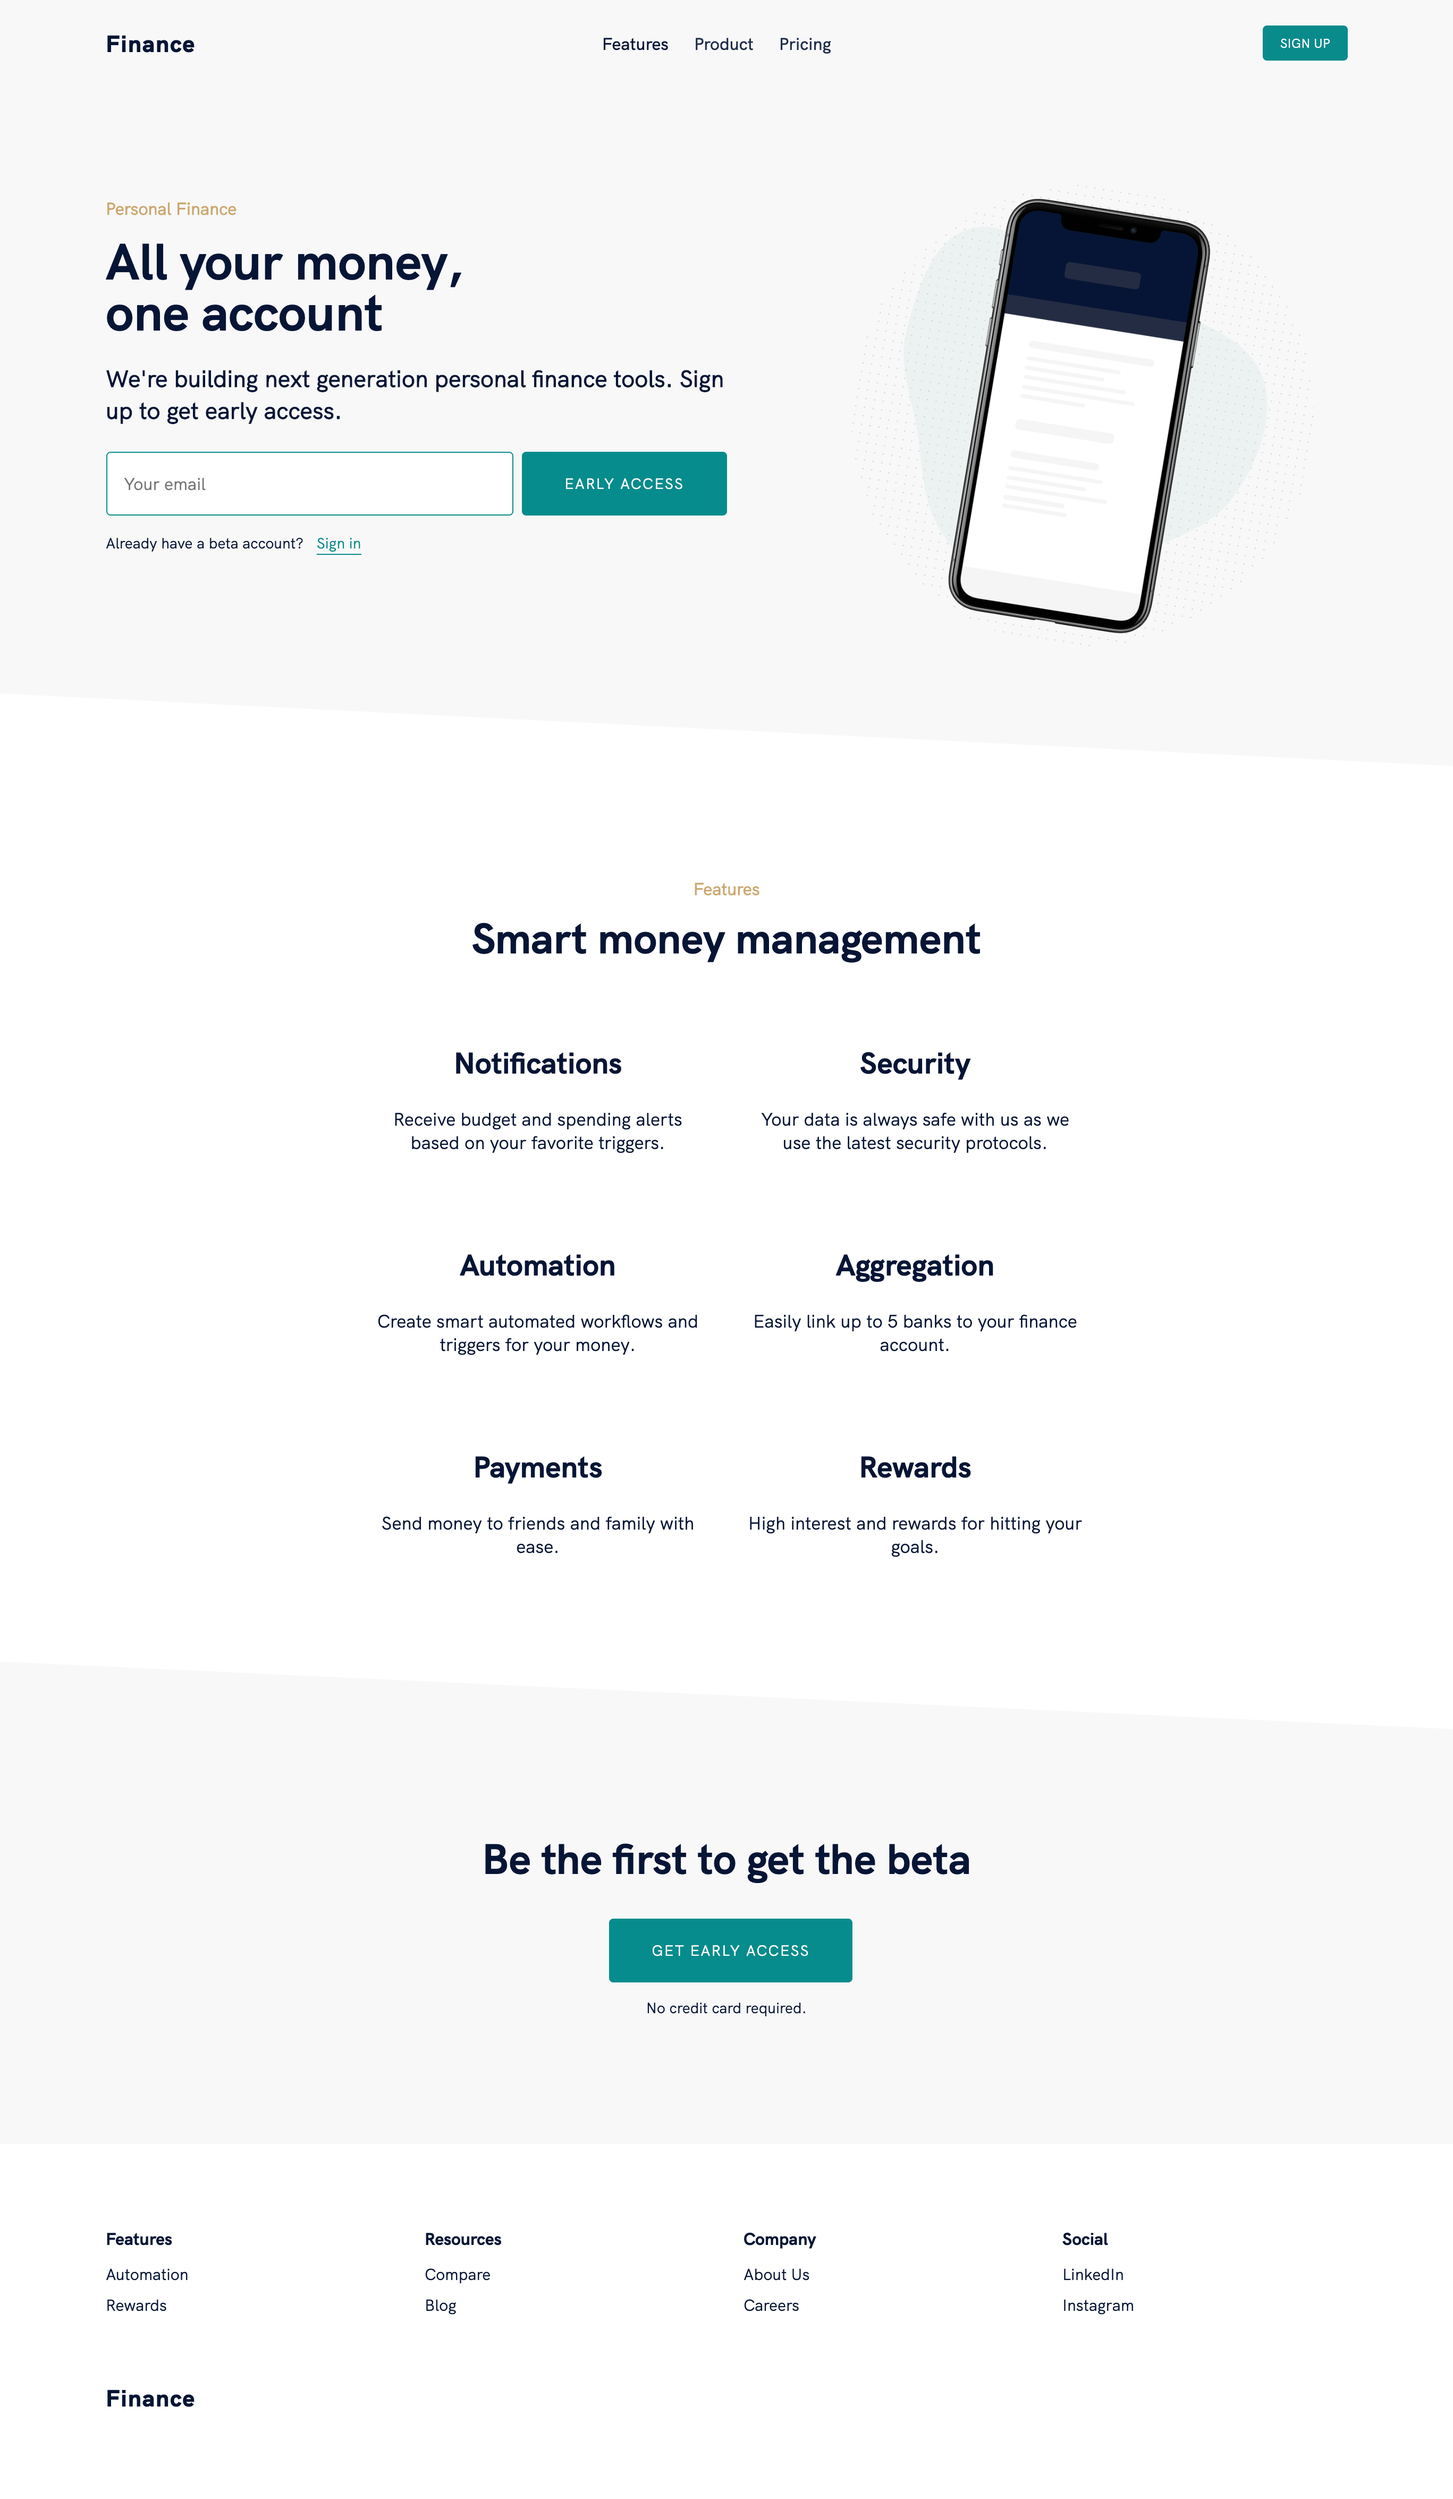
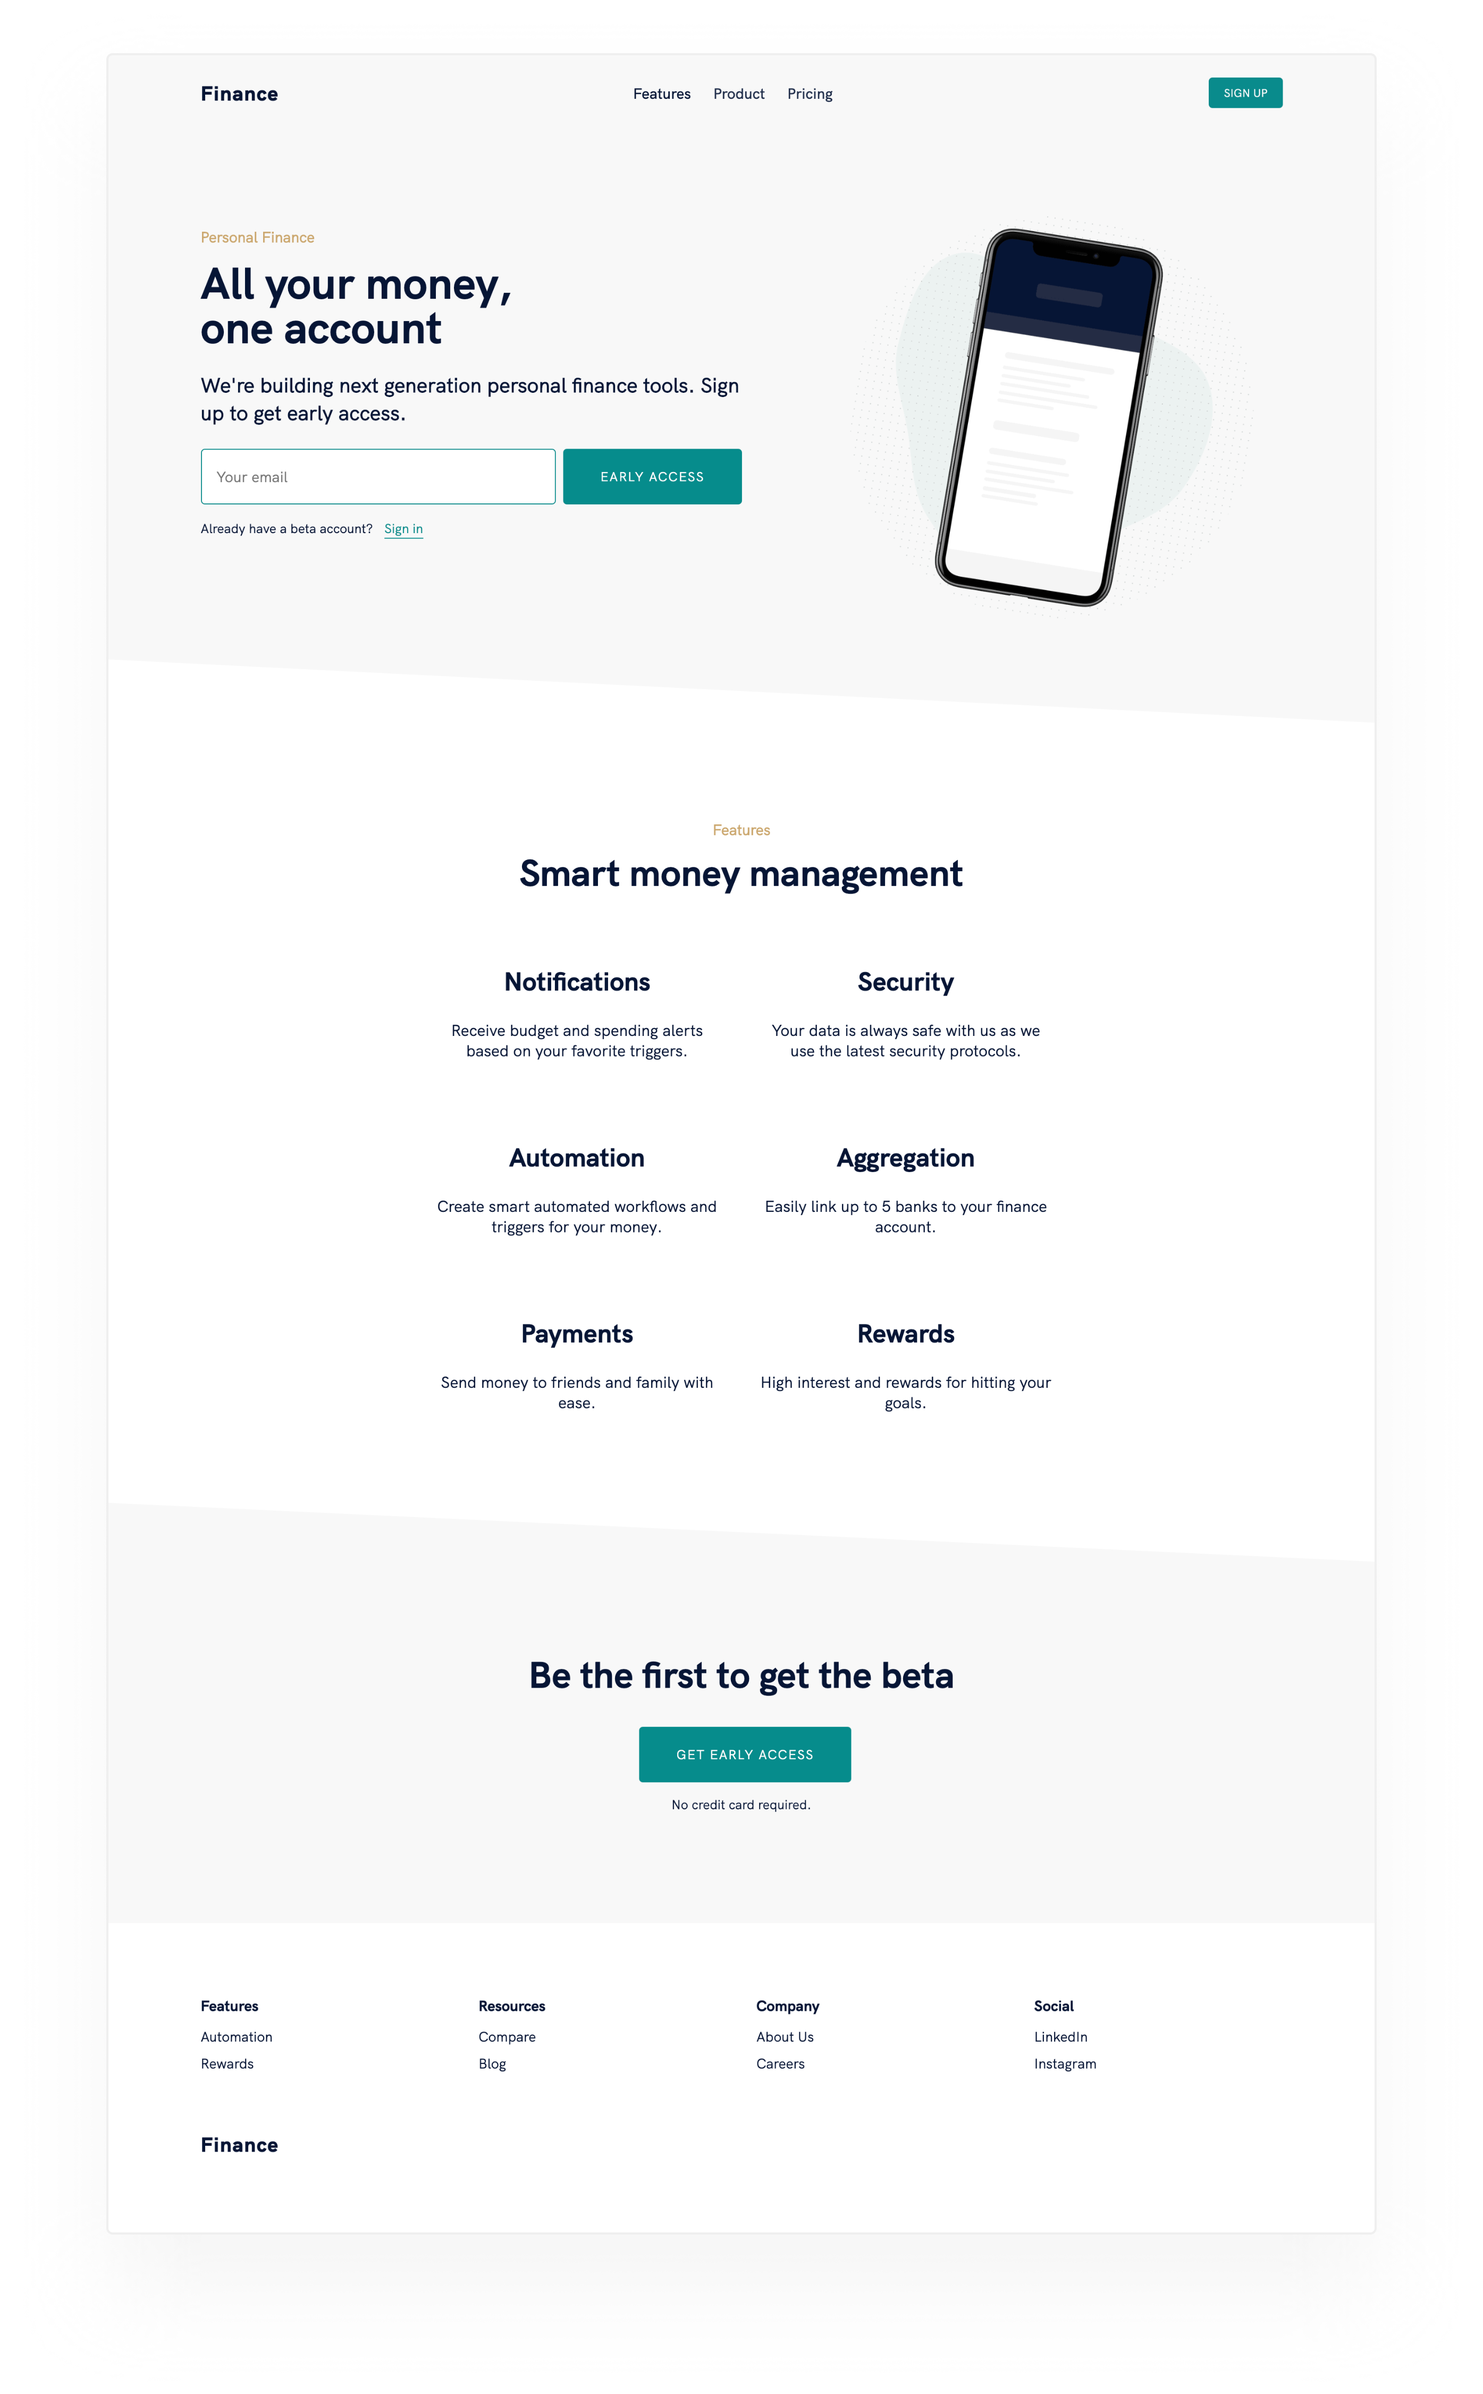
Update readme again

diff --git a/README.md b/README.md
@@ -4,7 +4,7 @@
 
 [Live Demo: https://gatsby-starter-saas-marketing.netlify.com/ ](https://gatsby-starter-saas-marketing.netlify.com/)
 
-<img src="src/images/gatsby-starter-saas-marketing-full-page.png?raw=true" width="300" alt="Gatsby Starter Saas Marketing Full Screen Image"/>
+<img src="src/images/gatsby-starter-saas-marketing-full-page.png?raw=true" width="600" alt="Gatsby Starter Saas Marketing Full Screen Image"/>
 
 ### Getting started
 
